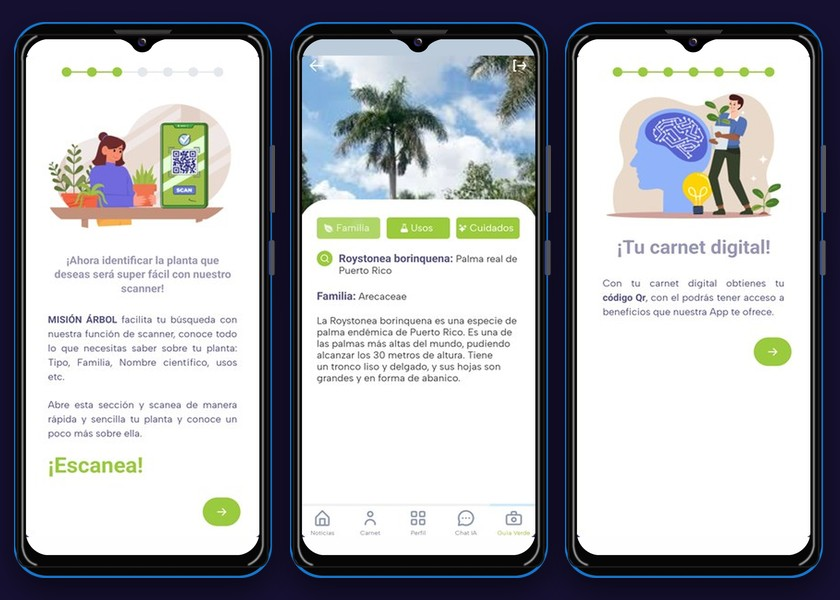
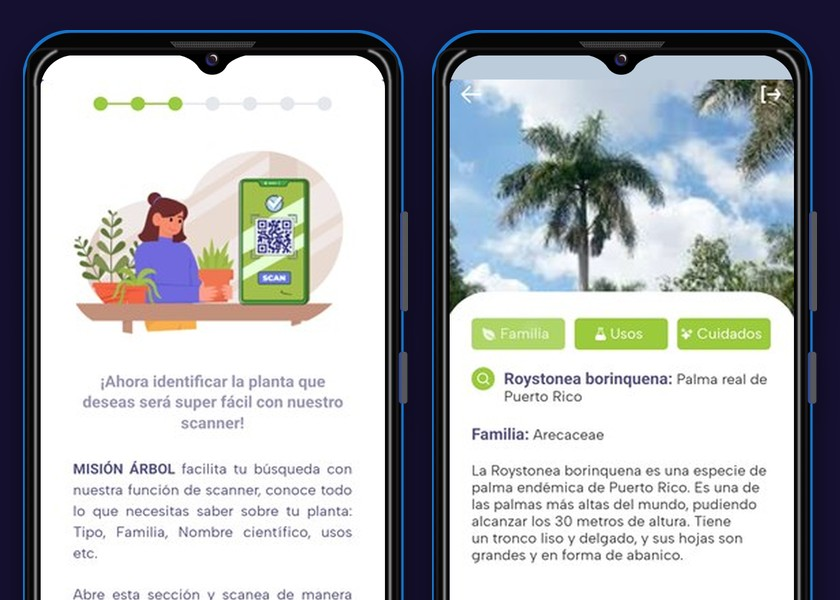
Two-phone thumbnails, three-phone carousel slides and a fixed Software Development heading
- Mobile thumbnails show two large phones; carousel images show up to three
- Software Development is a plain heading; Mobile, Web and Others start closed

diff --git a/src/components/Works.jsx b/src/components/Works.jsx
@@ -161,6 +161,48 @@ const CategoryBlock = ({ category, level, openState, onToggle }) => {
   const total = countProjects(category);
   if (total === 0) return null;
 
+  const content = category.projects ? (
+    <div className='mt-8 flex flex-wrap gap-7'>
+      {category.projects.map((project, index) => (
+        <ProjectCard
+          key={`${category.title}-${project.name}`}
+          index={index}
+          {...project}
+        />
+      ))}
+    </div>
+  ) : (
+    <div className={level === 1 ? "pl-0 sm:pl-6" : ""}>
+      {category.children.map((child) => (
+        <CategoryBlock
+          key={child.title}
+          category={child}
+          level={level + 1}
+          openState={openState}
+          onToggle={onToggle}
+        />
+      ))}
+    </div>
+  );
+
+  // A plain heading (not a toggle): its content is always visible.
+  if (category.collapsible === false) {
+    return (
+      <div className={level === 1 ? "mt-14" : "mt-10"}>
+        <h3 className='m-0 border-b border-white/10 pb-3'>
+          <span
+            className={`text-white font-bold ${
+              level === 1 ? "sm:text-[32px] text-[26px]" : "sm:text-[26px] text-[22px]"
+            }`}
+          >
+            {category.title}
+          </span>
+        </h3>
+        {content}
+      </div>
+    );
+  }
+
   return (
     <div className={level === 1 ? "mt-14" : "mt-10"}>
       <h3 className='m-0'>
@@ -197,29 +239,7 @@ const CategoryBlock = ({ category, level, openState, onToggle }) => {
             onAnimationComplete={() => setClip(false)}
             className={clip ? "overflow-hidden" : ""}
           >
-            {category.projects ? (
-              <div className='mt-8 flex flex-wrap gap-7'>
-                {category.projects.map((project, index) => (
-                  <ProjectCard
-                    key={`${category.title}-${project.name}`}
-                    index={index}
-                    {...project}
-                  />
-                ))}
-              </div>
-            ) : (
-              <div className={level === 1 ? "pl-0 sm:pl-6" : ""}>
-                {category.children.map((child) => (
-                  <CategoryBlock
-                    key={child.title}
-                    category={child}
-                    level={level + 1}
-                    openState={openState}
-                    onToggle={onToggle}
-                  />
-                ))}
-              </div>
-            )}
+            {content}
           </motion.div>
         )}
       </AnimatePresence>

diff --git a/src/constants/constants.js b/src/constants/constants.js
@@ -58,6 +58,7 @@ import {
   vitaldetail,
   misionarboldetail,
   pegasusdetail,
+  pegasusdetail2,
   cryptotrackerdetail,
   offboarding,
   newuser,
@@ -563,7 +564,7 @@ const mobileProjects = [
       },
     ],
     image: zerux,
-    images: [zerux, zeruxdetail],
+    images: [zeruxdetail],
     live_url: "https://play.google.com/store/apps/details?id=com.dtowerssj.nevula_mobile",
     live_icon: googleplay,
   },
@@ -594,7 +595,7 @@ const mobileProjects = [
       },
     ],
     image: misionarbol,
-    images: [misionarbol, misionarboldetail],
+    images: [misionarboldetail],
   },
   {
     name: "Vital",
@@ -618,7 +619,7 @@ const mobileProjects = [
       },
     ],
     image: vital,
-    images: [vital, vitaldetail],
+    images: [vitaldetail],
   },
   {
     name: "Pegasus",
@@ -650,7 +651,7 @@ const mobileProjects = [
       },
     ],
     image: pegasus,
-    images: [pegasus, pegasusdetail],
+    images: [pegasusdetail, pegasusdetail2],
     source_code_link: "https://github.com/Dtowerssj/pegasus-app",
   },
   {
@@ -671,7 +672,7 @@ const mobileProjects = [
       },
     ],
     image: cryptotracker,
-    images: [cryptotracker, cryptotrackerdetail],
+    images: [cryptotrackerdetail],
     source_code_link: "https://github.com/Dtowerssj/crypto-tracker-app",
   },
   // RESERVED SLOT (hidden): standalone Waku thermal printer module (its app is Zerux, shown above). Activate it once we know where the
@@ -857,14 +858,14 @@ const aiProjects = [
 ];
 
 // Nested, collapsible categories. A category with `projects` shows cards; one with `children` holds other
-// categories. `defaultOpen` is only the initial state.
+// categories. `defaultOpen` is only the initial state; `collapsible: false` makes a plain heading.
 const projectCategories = [
   { title: "AI and Automation", defaultOpen: true, projects: aiProjects },
   {
     title: "Software Development",
-    defaultOpen: false,
+    collapsible: false,
     children: [
-      { title: "Mobile", defaultOpen: true, projects: mobileProjects },
+      { title: "Mobile", defaultOpen: false, projects: mobileProjects },
       { title: "Web", defaultOpen: false, projects: webProjects },
       { title: "Others", defaultOpen: false, projects: otherProjects },
     ],

diff --git a/src/assets/index.js b/src/assets/index.js
@@ -68,6 +68,7 @@ import zeruxdetail from "./zeruxdetail.jpg";
 import vitaldetail from "./vitaldetail.jpg";
 import misionarboldetail from "./misionarboldetail.jpg";
 import pegasusdetail from "./pegasusdetail.jpg";
+import pegasusdetail2 from "./pegasusdetail2.jpg";
 import cryptotrackerdetail from "./cryptotrackerdetail.jpg";
 import offboarding from "./offboarding.png";
 import newuser from "./newuser.png";
@@ -134,6 +135,7 @@ export {
   vitaldetail,
   misionarboldetail,
   pegasusdetail,
+  pegasusdetail2,
   cryptotrackerdetail,
   offboarding,
   newuser,
